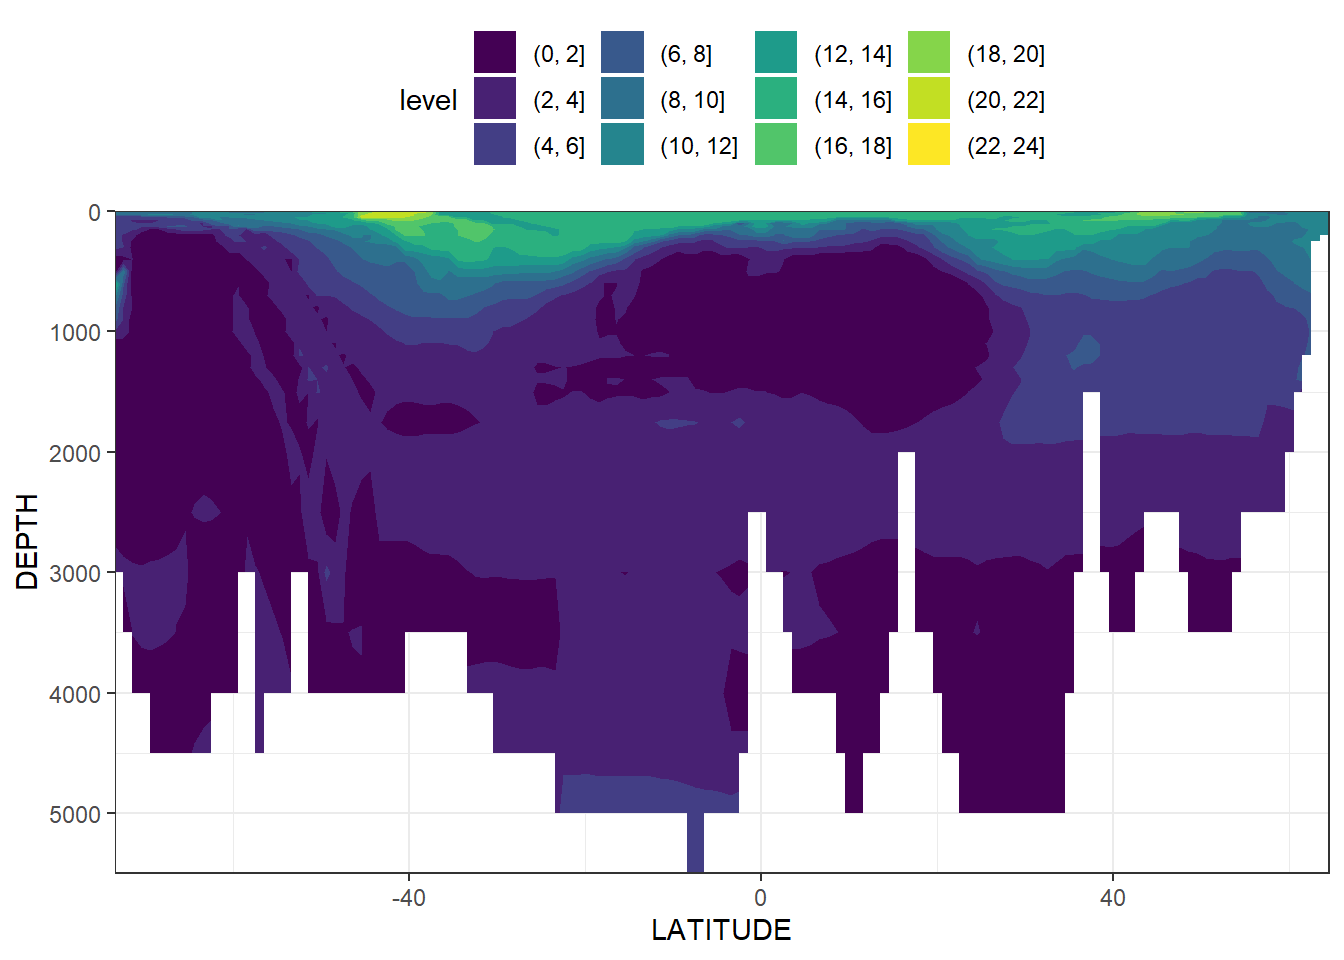
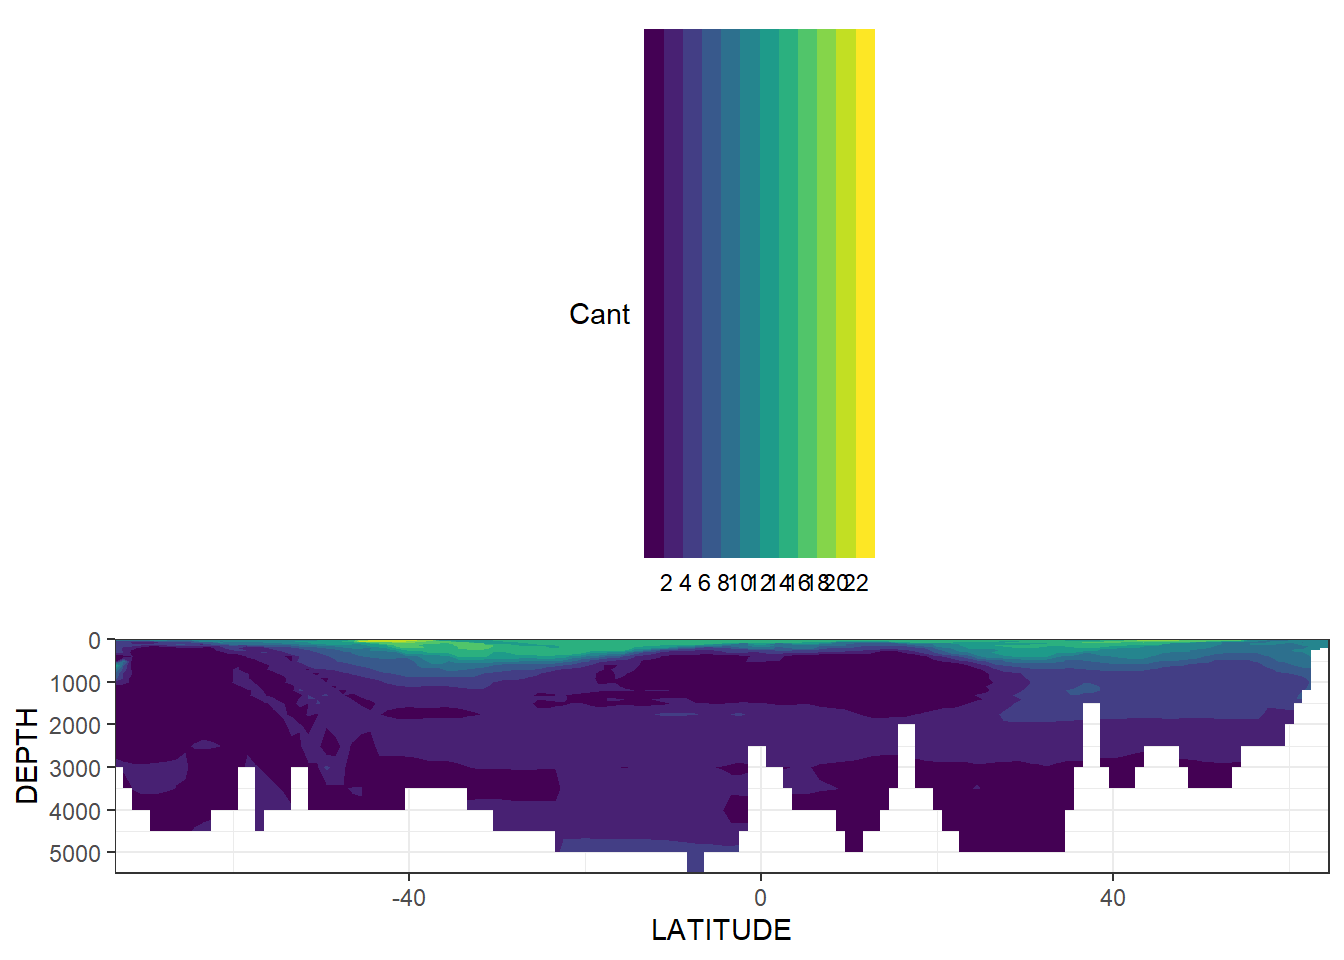
Build site.

diff --git a/docs/read_Gruber_2019_Cant.html b/docs/read_Gruber_2019_Cant.html
@@ -552,16 +552,16 @@ This reproducible <a href="http://rmarkdown.rstudio.com">R Markdown</a> analysis
 <div class="panel panel-default">
 <div class="panel-heading">
 <p class="panel-title">
-<a data-toggle="collapse" data-parent="#workflowr-checks" href="#strongRepositoryversionstrongahrefhttpsgithubcomjensdanielmuellerCanteMLRtreeceb438a015c9498ca414b837763d487f631cbe76targetblankceb438aa"> <span class="glyphicon glyphicon-ok text-success" aria-hidden="true"></span> <strong>Repository version:</strong> <a href="https://github.com/jens-daniel-mueller/Cant_eMLR/tree/ceb438a015c9498ca414b837763d487f631cbe76" target="_blank">ceb438a</a> </a>
+<a data-toggle="collapse" data-parent="#workflowr-checks" href="#strongRepositoryversionstrongahrefhttpsgithubcomjensdanielmuellerCanteMLRtree8b6b8d80dd15d58a3088e840b75af789fffb7fb5targetblank8b6b8d8a"> <span class="glyphicon glyphicon-ok text-success" aria-hidden="true"></span> <strong>Repository version:</strong> <a href="https://github.com/jens-daniel-mueller/Cant_eMLR/tree/8b6b8d80dd15d58a3088e840b75af789fffb7fb5" target="_blank">8b6b8d8</a> </a>
 </p>
 </div>
[2 lines of base64/hex data omitted]
 <div class="panel-body">
 <p>
 Great! You are using Git for version control. Tracking code development and connecting the code version to the results is critical for reproducibility.
 </p>
 <p>
-The results in this page were generated with repository version <a href="https://github.com/jens-daniel-mueller/Cant_eMLR/tree/ceb438a015c9498ca414b837763d487f631cbe76" target="_blank">ceb438a</a>. See the <em>Past versions</em> tab to see a history of the changes made to the R Markdown and HTML files.
+The results in this page were generated with repository version <a href="https://github.com/jens-daniel-mueller/Cant_eMLR/tree/8b6b8d80dd15d58a3088e840b75af789fffb7fb5" target="_blank">8b6b8d8</a>. See the <em>Past versions</em> tab to see a history of the changes made to the R Markdown and HTML files.
 </p>
 <p>
 Note that you need to be careful to ensure that all relevant files for the analysis have been committed to Git prior to generating the results (you can use <code>wflow_publish</code> or <code>wflow_git_commit</code>). workflowr only checks the R Markdown file, but you know if there are other scripts or data files that it depends on. Below is the status of the Git repository when the results were generated:
@@ -582,87 +582,6 @@ Ignored files:
 Untracked files:
     Untracked:  analysis/python_scripts/
     Untracked:  analysis/test_scripts/
-
-Unstaged changes:
-    Modified:   analysis/_site.yml
-    Modified:   output/figure/eMLR/predictor_correlation/predictor_correlation_Atlantic_GO_SHIP_(-Inf,26]_.png
-    Modified:   output/figure/eMLR/predictor_correlation/predictor_correlation_Atlantic_GO_SHIP_(26,26.5]_.png
-    Modified:   output/figure/eMLR/predictor_correlation/predictor_correlation_Atlantic_GO_SHIP_(26.5,26.75]_.png
-    Modified:   output/figure/eMLR/predictor_correlation/predictor_correlation_Atlantic_GO_SHIP_(26.75,27]_.png
-    Modified:   output/figure/eMLR/predictor_correlation/predictor_correlation_Atlantic_GO_SHIP_(27,27.25]_.png
-    Modified:   output/figure/eMLR/predictor_correlation/predictor_correlation_Atlantic_GO_SHIP_(27.25,27.5]_.png
-    Modified:   output/figure/eMLR/predictor_correlation/predictor_correlation_Atlantic_GO_SHIP_(27.5,27.75]_.png
-    Modified:   output/figure/eMLR/predictor_correlation/predictor_correlation_Atlantic_GO_SHIP_(27.75,27.85]_.png
-    Modified:   output/figure/eMLR/predictor_correlation/predictor_correlation_Atlantic_GO_SHIP_(27.85,27.95]_.png
-    Modified:   output/figure/eMLR/predictor_correlation/predictor_correlation_Atlantic_GO_SHIP_(27.95,28.05]_.png
-    Modified:   output/figure/eMLR/predictor_correlation/predictor_correlation_Atlantic_GO_SHIP_(28.05,28.1]_.png
-    Modified:   output/figure/eMLR/predictor_correlation/predictor_correlation_Atlantic_GO_SHIP_(28.1,28.15]_.png
-    Modified:   output/figure/eMLR/predictor_correlation/predictor_correlation_Atlantic_GO_SHIP_(28.15,28.2]_.png
-    Modified:   output/figure/eMLR/predictor_correlation/predictor_correlation_Atlantic_GO_SHIP_(28.2, Inf]_.png
-    Modified:   output/figure/eMLR/predictor_correlation/predictor_correlation_Atlantic_JGOFS_WOCE_(-Inf,26]_.png
-    Modified:   output/figure/eMLR/predictor_correlation/predictor_correlation_Atlantic_JGOFS_WOCE_(26,26.5]_.png
-    Modified:   output/figure/eMLR/predictor_correlation/predictor_correlation_Atlantic_JGOFS_WOCE_(26.5,26.75]_.png
-    Modified:   output/figure/eMLR/predictor_correlation/predictor_correlation_Atlantic_JGOFS_WOCE_(26.75,27]_.png
-    Modified:   output/figure/eMLR/predictor_correlation/predictor_correlation_Atlantic_JGOFS_WOCE_(27,27.25]_.png
-    Modified:   output/figure/eMLR/predictor_correlation/predictor_correlation_Atlantic_JGOFS_WOCE_(27.25,27.5]_.png
-    Modified:   output/figure/eMLR/predictor_correlation/predictor_correlation_Atlantic_JGOFS_WOCE_(27.5,27.75]_.png
-    Modified:   output/figure/eMLR/predictor_correlation/predictor_correlation_Atlantic_JGOFS_WOCE_(27.75,27.85]_.png
-    Modified:   output/figure/eMLR/predictor_correlation/predictor_correlation_Atlantic_JGOFS_WOCE_(27.85,27.95]_.png
-    Modified:   output/figure/eMLR/predictor_correlation/predictor_correlation_Atlantic_JGOFS_WOCE_(27.95,28.05]_.png
-    Modified:   output/figure/eMLR/predictor_correlation/predictor_correlation_Atlantic_JGOFS_WOCE_(28.05,28.1]_.png
-    Modified:   output/figure/eMLR/predictor_correlation/predictor_correlation_Atlantic_JGOFS_WOCE_(28.1,28.15]_.png
-    Modified:   output/figure/eMLR/predictor_correlation/predictor_correlation_Atlantic_JGOFS_WOCE_(28.15,28.2]_.png
-    Modified:   output/figure/eMLR/predictor_correlation/predictor_correlation_Atlantic_JGOFS_WOCE_(28.2, Inf]_.png
-    Modified:   output/figure/eMLR/predictor_correlation/predictor_correlation_Atlantic_new_era_(-Inf,26]_.png
-    Modified:   output/figure/eMLR/predictor_correlation/predictor_correlation_Atlantic_new_era_(26,26.5]_.png
-    Modified:   output/figure/eMLR/predictor_correlation/predictor_correlation_Atlantic_new_era_(26.5,26.75]_.png
-    Modified:   output/figure/eMLR/predictor_correlation/predictor_correlation_Atlantic_new_era_(26.75,27]_.png
-    Modified:   output/figure/eMLR/predictor_correlation/predictor_correlation_Atlantic_new_era_(27,27.25]_.png
-    Modified:   output/figure/eMLR/predictor_correlation/predictor_correlation_Atlantic_new_era_(27.25,27.5]_.png
-    Modified:   output/figure/eMLR/predictor_correlation/predictor_correlation_Atlantic_new_era_(27.5,27.75]_.png
-    Modified:   output/figure/eMLR/predictor_correlation/predictor_correlation_Atlantic_new_era_(27.75,27.85]_.png
-    Modified:   output/figure/eMLR/predictor_correlation/predictor_correlation_Atlantic_new_era_(27.85,27.95]_.png
-    Modified:   output/figure/eMLR/predictor_correlation/predictor_correlation_Atlantic_new_era_(27.95,28.05]_.png
-    Modified:   output/figure/eMLR/predictor_correlation/predictor_correlation_Atlantic_new_era_(28.05,28.1]_.png
-    Modified:   output/figure/eMLR/predictor_correlation/predictor_correlation_Atlantic_new_era_(28.1,28.15]_.png
-    Modified:   output/figure/eMLR/predictor_correlation/predictor_correlation_Atlantic_new_era_(28.15,28.2]_.png
-    Modified:   output/figure/eMLR/predictor_correlation/predictor_correlation_Atlantic_new_era_(28.2, Inf]_.png
-    Modified:   output/figure/eMLR/predictor_correlation/predictor_correlation_Indo-Pacific_GO_SHIP_(-Inf,26]_.png
-    Modified:   output/figure/eMLR/predictor_correlation/predictor_correlation_Indo-Pacific_GO_SHIP_(26,26.5]_.png
-    Modified:   output/figure/eMLR/predictor_correlation/predictor_correlation_Indo-Pacific_GO_SHIP_(26.5,26.75]_.png
-    Modified:   output/figure/eMLR/predictor_correlation/predictor_correlation_Indo-Pacific_GO_SHIP_(26.75,27]_.png
-    Modified:   output/figure/eMLR/predictor_correlation/predictor_correlation_Indo-Pacific_GO_SHIP_(27,27.25]_.png
-    Modified:   output/figure/eMLR/predictor_correlation/predictor_correlation_Indo-Pacific_GO_SHIP_(27.25,27.5]_.png
-    Modified:   output/figure/eMLR/predictor_correlation/predictor_correlation_Indo-Pacific_GO_SHIP_(27.5,27.75]_.png
-    Modified:   output/figure/eMLR/predictor_correlation/predictor_correlation_Indo-Pacific_GO_SHIP_(27.75,27.85]_.png
-    Modified:   output/figure/eMLR/predictor_correlation/predictor_correlation_Indo-Pacific_GO_SHIP_(27.85,27.95]_.png
-    Modified:   output/figure/eMLR/predictor_correlation/predictor_correlation_Indo-Pacific_GO_SHIP_(27.95,28.05]_.png
-    Modified:   output/figure/eMLR/predictor_correlation/predictor_correlation_Indo-Pacific_GO_SHIP_(28.05,28.1]_.png
-    Modified:   output/figure/eMLR/predictor_correlation/predictor_correlation_Indo-Pacific_GO_SHIP_(28.1, Inf]_.png
-    Modified:   output/figure/eMLR/predictor_correlation/predictor_correlation_Indo-Pacific_JGOFS_WOCE_(-Inf,26]_.png
-    Modified:   output/figure/eMLR/predictor_correlation/predictor_correlation_Indo-Pacific_JGOFS_WOCE_(26,26.5]_.png
-    Modified:   output/figure/eMLR/predictor_correlation/predictor_correlation_Indo-Pacific_JGOFS_WOCE_(26.5,26.75]_.png
-    Modified:   output/figure/eMLR/predictor_correlation/predictor_correlation_Indo-Pacific_JGOFS_WOCE_(26.75,27]_.png
-    Modified:   output/figure/eMLR/predictor_correlation/predictor_correlation_Indo-Pacific_JGOFS_WOCE_(27,27.25]_.png
-    Modified:   output/figure/eMLR/predictor_correlation/predictor_correlation_Indo-Pacific_JGOFS_WOCE_(27.25,27.5]_.png
-    Modified:   output/figure/eMLR/predictor_correlation/predictor_correlation_Indo-Pacific_JGOFS_WOCE_(27.5,27.75]_.png
-    Modified:   output/figure/eMLR/predictor_correlation/predictor_correlation_Indo-Pacific_JGOFS_WOCE_(27.75,27.85]_.png
-    Modified:   output/figure/eMLR/predictor_correlation/predictor_correlation_Indo-Pacific_JGOFS_WOCE_(27.85,27.95]_.png
-    Modified:   output/figure/eMLR/predictor_correlation/predictor_correlation_Indo-Pacific_JGOFS_WOCE_(27.95,28.05]_.png
-    Modified:   output/figure/eMLR/predictor_correlation/predictor_correlation_Indo-Pacific_JGOFS_WOCE_(28.05,28.1]_.png
-    Modified:   output/figure/eMLR/predictor_correlation/predictor_correlation_Indo-Pacific_JGOFS_WOCE_(28.1, Inf]_.png
-    Modified:   output/figure/eMLR/predictor_correlation/predictor_correlation_Indo-Pacific_new_era_(-Inf,26]_.png
-    Modified:   output/figure/eMLR/predictor_correlation/predictor_correlation_Indo-Pacific_new_era_(26,26.5]_.png
-    Modified:   output/figure/eMLR/predictor_correlation/predictor_correlation_Indo-Pacific_new_era_(26.5,26.75]_.png
-    Modified:   output/figure/eMLR/predictor_correlation/predictor_correlation_Indo-Pacific_new_era_(26.75,27]_.png
-    Modified:   output/figure/eMLR/predictor_correlation/predictor_correlation_Indo-Pacific_new_era_(27,27.25]_.png
-    Modified:   output/figure/eMLR/predictor_correlation/predictor_correlation_Indo-Pacific_new_era_(27.25,27.5]_.png
-    Modified:   output/figure/eMLR/predictor_correlation/predictor_correlation_Indo-Pacific_new_era_(27.5,27.75]_.png
-    Modified:   output/figure/eMLR/predictor_correlation/predictor_correlation_Indo-Pacific_new_era_(27.75,27.85]_.png
-    Modified:   output/figure/eMLR/predictor_correlation/predictor_correlation_Indo-Pacific_new_era_(27.85,27.95]_.png
-    Modified:   output/figure/eMLR/predictor_correlation/predictor_correlation_Indo-Pacific_new_era_(27.95,28.05]_.png
-    Modified:   output/figure/eMLR/predictor_correlation/predictor_correlation_Indo-Pacific_new_era_(28.05,28.1]_.png
-    Modified:   output/figure/eMLR/predictor_correlation/predictor_correlation_Indo-Pacific_new_era_(28.1, Inf]_.png
 
 </code></pre>
 <p>
@@ -706,6 +625,40 @@ Message
 Rmd
 </td>
 <td>
+<a href="https://github.com/jens-daniel-mueller/Cant_eMLR/blob/8b6b8d80dd15d58a3088e840b75af789fffb7fb5/analysis/read_Gruber_2019_Cant.Rmd" target="_blank">8b6b8d8</a>
+</td>
+<td>
+jens-daniel-mueller
+</td>
+<td>
+2020-08-07
+</td>
+<td>
+formating
+</td>
+</tr>
+<tr>
+<td>
+html
+</td>
+<td>
+<a href="https://rawcdn.githack.com/jens-daniel-mueller/Cant_eMLR/7d7900ab7998f31d36d2772656045930b5e077a4/docs/read_Gruber_2019_Cant.html" target="_blank">7d7900a</a>
+</td>
+<td>
+jens-daniel-mueller
+</td>
+<td>
+2020-08-07
+</td>
+<td>
+Build site.
+</td>
+</tr>
+<tr>
+<td>
+Rmd
+</td>
+<td>
 <a href="https://github.com/jens-daniel-mueller/Cant_eMLR/blob/ceb438a015c9498ca414b837763d487f631cbe76/analysis/read_Gruber_2019_Cant.Rmd" target="_blank">ceb438a</a>
 </td>
 <td>
@@ -732,10 +685,11 @@ library(stars)</code></pre>
 <div id="data-source" class="section level1">
 <h1><span class="header-section-number">1</span> Data source</h1>
 <ul>
-<li>Data source: Anthropogenic CO2 estimates (1994-2007) by Gruber et al. (2019) downloaded in August 2020 from <a href="https://www.nodc.noaa.gov/ocads/oceans/ndp_100/ndp100.html" target="_blank">NOAA/NCEI Ocean Carbon Data System (OCADS)</a></li>
+<li>Anthropogenic CO2 estimates (1994-2007) by Gruber et al. (2019) downloaded in August 2020 from <a href="https://www.nodc.noaa.gov/ocads/oceans/ndp_100/ndp100.html" target="_blank">NOAA/NCEI Ocean Carbon Data System (OCADS)</a></li>
 </ul>
-<div id="read-ncdfs" class="section level2">
-<h2><span class="header-section-number">1.1</span> Read ncdfs</h2>
+</div>
+<div id="read-ncdfs" class="section level1">
+<h1><span class="header-section-number">2</span> Read ncdfs</h1>
 <pre class="r"><code>inv_dcant &lt;- tidync(here::here(&quot;data/Gruber_2019&quot;,
                                &quot;inv_dcant_emlr_cstar_gruber_94-07_vs1.nc&quot;))
 
@@ -749,6 +703,9 @@ dcant_tibble &lt;- dcant %&gt;% hyper_tibble()
 
 inv_dcant &lt;- inv_dcant %&gt;%  activate(DCANT_INV01)
 inv_dcant_tibble &lt;- inv_dcant %&gt;% hyper_tibble()</code></pre>
+</div>
+<div id="cant-plots" class="section level1">
+<h1><span class="header-section-number">3</span> Cant plots</h1>
 <pre class="r"><code>depth_surface_selection &lt;- c(0)
 Atl_lon &lt;- 335.5
 Pac_lon &lt;- 190.5</code></pre>
@@ -763,11 +720,8 @@ Pac_lon &lt;- 190.5</code></pre>
 </ul>
 <p>Section locations are indicated as white lines in maps.</p>
 <p>Please note that longitudes in the climatologies range from -179.5 - 179.5, which is different from GLODAP mapped climatologies.</p>
-</div>
-<div id="cant-plots" class="section level2">
-<h2><span class="header-section-number">1.2</span> Cant plots</h2>
-<div id="surface-inventory-map" class="section level3">
-<h3><span class="header-section-number">1.2.1</span> Surface Inventory map</h3>
+<div id="surface-inventory-map" class="section level2">
+<h2><span class="header-section-number">3.1</span> Surface Inventory map</h2>
 <pre class="r"><code>inv_dcant_tibble %&gt;% 
   ggplot(aes(LONGITUDE, LATITUDE, fill = DCANT_INV01)) +
   geom_raster() +
@@ -777,28 +731,37 @@ Pac_lon &lt;- 190.5</code></pre>
   theme(legend.position = &quot;top&quot;)</code></pre>
 <p><img src="figure/read_Gruber_2019_Cant.Rmd/Cant_inv_map-1.png" width="672" style="display: block; margin: auto;" /></p>
 </div>
-<div id="section" class="section level3">
-<h3><span class="header-section-number">1.2.2</span> Section</h3>
+<div id="sections" class="section level2">
+<h2><span class="header-section-number">3.2</span> Sections</h2>
+<div id="atlantic" class="section level3">
+<h3><span class="header-section-number">3.2.1</span> Atlantic</h3>
 <pre class="r"><code>dcant_tibble %&gt;% 
   filter(LONGITUDE == Atl_lon) %&gt;% 
   ggplot(aes(LATITUDE, DEPTH, z = DCANT_01)) +
   geom_contour_filled() +
+  scale_fill_viridis_d(name = &quot;Cant&quot;) +
+  guides(fill = guide_colorsteps(barheight = unit(7, &quot;cm&quot;))) +
   scale_y_reverse() +
   coord_cartesian(expand = 0) +
   theme(legend.position = &quot;top&quot;)</code></pre>
 <p><img src="figure/read_Gruber_2019_Cant.Rmd/Cant_section_Atlantic-1.png" width="672" style="display: block; margin: auto;" /></p>
+</div>
+<div id="pacific" class="section level3">
+<h3><span class="header-section-number">3.2.2</span> Pacific</h3>
 <pre class="r"><code>dcant_tibble %&gt;% 
   filter(LONGITUDE == Pac_lon) %&gt;% 
   ggplot(aes(LATITUDE, DEPTH, z = DCANT_01)) +
   geom_contour_filled() +
+  scale_fill_viridis_d(name = &quot;Cant&quot;) +
+  guides(fill = guide_colorsteps(barheight = unit(7, &quot;cm&quot;))) +
   scale_y_reverse() +
   coord_cartesian(expand = 0) +
   theme(legend.position = &quot;top&quot;)</code></pre>
 <p><img src="figure/read_Gruber_2019_Cant.Rmd/Cant_section_Pacific-1.png" width="672" style="display: block; margin: auto;" /></p>
 </div>
 </div>
-<div id="write-file" class="section level2">
-<h2><span class="header-section-number">1.3</span> Write file</h2>
+<div id="write-files" class="section level2">
+<h2><span class="header-section-number">3.3</span> Write files</h2>
 <pre class="r"><code>dcant_tibble %&gt;% 
   write_csv(here::here(&quot;data/Gruber_2019/_summarized_files&quot;,
                        &quot;dcant.csv&quot;))
@@ -809,13 +772,13 @@ inv_dcant_tibble %&gt;%
 </div>
 </div>
 <div id="open-tasks" class="section level1">
-<h1><span class="header-section-number">2</span> Open tasks</h1>
+<h1><span class="header-section-number">4</span> Open tasks</h1>
 <ul>
 <li></li>
 </ul>
 </div>
 <div id="questions" class="section level1">
-<h1><span class="header-section-number">3</span> Questions</h1>
+<h1><span class="header-section-number">5</span> Questions</h1>
 <ul>
 <li>Why are there no negative Cant estimates?</li>
 </ul>
